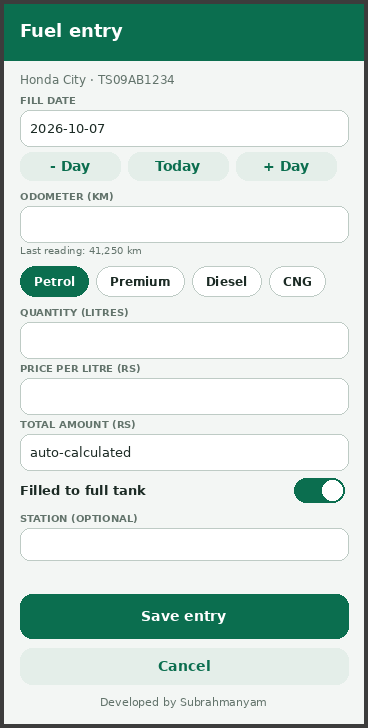
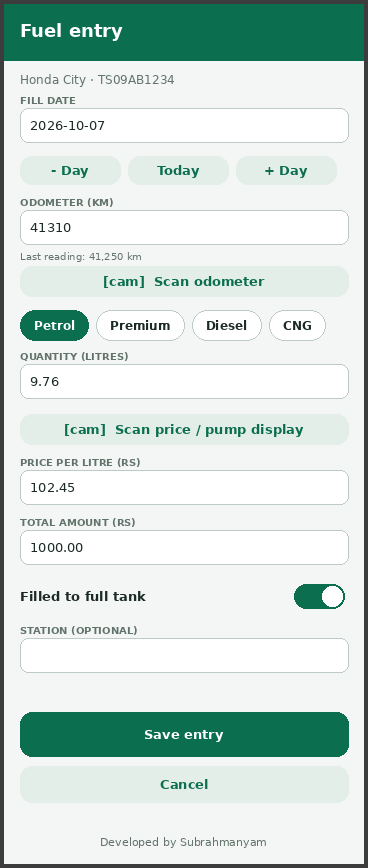
adding camera feature

diff --git a/app/src/screens.tsx b/app/src/screens.tsx
@@ -1,5 +1,6 @@
 import React, { useMemo, useState } from 'react';
-import { View, Text, ScrollView, Alert, Share, TouchableOpacity, Switch } from 'react-native';
+import { View, Text, ScrollView, Alert, Share, TouchableOpacity, Switch, Modal, ActivityIndicator } from 'react-native';
+import { captureText, odometerCandidates, amountCandidates } from './ocr';
 import { Vehicle, FuelEntry, FuelType, FUEL_TYPES, DB } from './types';
 import { Btn, Card, Chips, Field, Stat, C, s, Credit } from './ui';
 import { computeStats, monthlySpend, sortEntries, todayStr, addDays, validDate, money, num } from './calc';
@@ -63,6 +64,44 @@ export function Home({ db, vehicle, go, select }: { db: DB; vehicle: Vehicle | n
   );
 }
 
+/* ---------------- SCAN RESULT SHEET ---------------- */
+type Scan = { mode: 'odo' | 'fuel'; values: number[]; text: string } | null;
+function ScanSheet({ scan, onClose, onOdo, onField }: { scan: Scan; onClose: () => void; onOdo: (n: number) => void; onField: (f: 'price' | 'qty' | 'total', n: number) => void }) {
+  const [sel, setSel] = useState<number | null>(null);
+  if (!scan) return null;
+  const close = () => { setSel(null); onClose(); };
+  return (
+    <Modal transparent animationType="slide" onRequestClose={close}>
+      <View style={{ flex: 1, backgroundColor: '#0008', justifyContent: 'flex-end' }}>
+        <View style={{ backgroundColor: '#fff', borderTopLeftRadius: 18, borderTopRightRadius: 18, padding: 16, maxHeight: '80%' }}>
+          <Text style={{ fontSize: 17, fontWeight: '800', color: C.text }}>{scan.mode === 'odo' ? 'Odometer reading found' : 'Numbers found on pump / bill'}</Text>
+          <Text style={s.hint}>{scan.mode === 'odo' ? 'Tap the correct reading.' : 'Tap a number, then choose what it is.'}</Text>
+          <ScrollView style={{ marginVertical: 10 }}>
+            <View style={{ flexDirection: 'row', flexWrap: 'wrap' }}>
+              {scan.values.map((n) => (
+                <TouchableOpacity key={n} onPress={() => (scan.mode === 'odo' ? (onOdo(n), close()) : setSel(n))} style={[s.chip, sel === n && { backgroundColor: C.primary, borderColor: C.primary }]}>
+                  <Text style={{ color: sel === n ? '#fff' : C.text, fontWeight: '800', fontSize: 18 }}>{n}</Text>
+                </TouchableOpacity>
+              ))}
+            </View>
+            {scan.mode === 'fuel' && sel !== null && (
+              <View style={{ marginTop: 6 }}>
+                <Text style={{ color: C.sub, marginBottom: 6 }}>Use {sel} as:</Text>
+                <View style={{ flexDirection: 'row' }}>
+                  <Btn kind="ghost" label="Price/unit" onPress={() => { onField('price', sel); setSel(null); }} style={{ flex: 1, marginRight: 6, paddingVertical: 10 }} />
+                  <Btn kind="ghost" label="Quantity" onPress={() => { onField('qty', sel); setSel(null); }} style={{ flex: 1, marginRight: 6, paddingVertical: 10 }} />
+                  <Btn kind="ghost" label="Amount" onPress={() => { onField('total', sel); setSel(null); }} style={{ flex: 1, paddingVertical: 10 }} />
+                </View>
+              </View>
+            )}
+          </ScrollView>
+          <Btn label="Done" onPress={close} />
+        </View>
+      </View>
+    </Modal>
+  );
+}
+
 /* ---------------- ADD / EDIT FUEL ---------------- */
 export function AddFuel({ vehicle, entries, editing, onSave, onCancel }: { vehicle: Vehicle; entries: FuelEntry[]; editing?: FuelEntry | null; onSave: (e: FuelEntry) => void; onCancel: () => void }) {
   const sorted = sortEntries(entries);
@@ -77,6 +116,21 @@ export function AddFuel({ vehicle, entries, editing, onSave, onCancel }: { vehic
   const [station, setStation] = useState(editing?.station ?? '');
   const [notes, setNotes] = useState(editing?.notes ?? '');
   const unit = fuelType === 'CNG' ? 'kg' : 'litres';
+  const [scan, setScan] = useState<Scan>(null);
+  const [busy, setBusy] = useState(false);
+
+  const runScan = async (mode: 'odo' | 'fuel') => {
+    setBusy(true);
+    try {
+      const text = await captureText();
+      if (text === null) return;
+      const values = mode === 'odo' ? odometerCandidates(text, last?.odo ?? vehicle.startOdo ?? 0) : amountCandidates(text);
+      if (values.length === 0) return Alert.alert('No numbers found', 'Move closer, avoid glare, and crop tightly around the digits. You can also type the value.');
+      setScan({ mode, values, text });
+    } finally {
+      setBusy(false);
+    }
+  };
 
   const recalcTotal = (q: string, p: string) => {
     const a = parseFloat(q), b = parseFloat(p);
@@ -120,9 +174,11 @@ export function AddFuel({ vehicle, entries, editing, onSave, onCancel }: { vehic
         <Btn kind="ghost" label="+ Day" onPress={() => setDate(addDays(validDate(date) ? date : todayStr(), 1))} style={{ flex: 1, paddingVertical: 8 }} />
       </View>
       <Field label="Odometer (km)" value={odo} onChangeText={setOdo} keyboardType="decimal-pad" hint={last ? `Last reading: ${last.odo} km` : vehicle.startOdo != null ? `Odometer at setup: ${vehicle.startOdo} km` : 'First entry for this vehicle'} />
+      <Btn kind="ghost" label="📷  Scan odometer" onPress={() => runScan('odo')} disabled={busy} style={{ marginTop: -4, marginBottom: 12, paddingVertical: 10 }} />
       <Text style={s.label}>Fuel type</Text>
       <Chips options={FUEL_TYPES.map((f) => ({ key: f, label: f }))} value={fuelType} onChange={(k) => setFuelType(k as FuelType)} />
       <Field label={`Quantity (${unit})`} value={qty} onChangeText={onQty} keyboardType="decimal-pad" />
+      <Btn kind="ghost" label="📷  Scan price / pump display" onPress={() => runScan('fuel')} disabled={busy} style={{ marginBottom: 12, paddingVertical: 10 }} />
       <Field label={`Price per ${unit === 'kg' ? 'kg' : 'litre'} (₹)`} value={price} onChangeText={onPrice} keyboardType="decimal-pad" />
       <Field label="Total amount (₹)" value={total} onChangeText={onTotal} keyboardType="decimal-pad" hint="Auto-calculated; edit to match your bill" />
       <View style={{ flexDirection: 'row', alignItems: 'center', justifyContent: 'space-between', marginBottom: 12 }}>
@@ -136,6 +192,8 @@ export function AddFuel({ vehicle, entries, editing, onSave, onCancel }: { vehic
       <Field label="Notes (optional)" value={notes} onChangeText={setNotes} multiline />
       <Btn label={editing ? 'Save changes' : 'Save entry'} onPress={save} style={{ marginBottom: 10 }} />
       <Btn kind="ghost" label="Cancel" onPress={onCancel} />
+      {busy && <ActivityIndicator color={C.primary} style={{ marginTop: 12 }} />}
+      <ScanSheet scan={scan} onClose={() => setScan(null)} onOdo={(n) => setOdo(String(n))} onField={(f, n) => (f === 'price' ? onPrice(String(n)) : f === 'qty' ? onQty(String(n)) : onTotal(String(n)))} />
     </Body>
   );
 }

diff --git a/app/src/ocr.ts b/app/src/ocr.ts
@@ -1,0 +1,51 @@
+import { Alert } from 'react-native';
+import * as ImagePicker from 'expo-image-picker';
+import TextRecognition from '@react-native-ml-kit/text-recognition';
+
+/** Open the camera (with crop step), run on-device ML Kit OCR, return the recognised text or null if cancelled. */
+export async function captureText(): Promise<string | null> {
+  const perm = await ImagePicker.requestCameraPermissionsAsync();
+  if (!perm.granted) {
+    Alert.alert('Camera permission needed', 'Allow camera access in Android Settings > Apps > FuelLog > Permissions to scan readings.');
+    return null;
+  }
+  const r = await ImagePicker.launchCameraAsync({ mediaTypes: ['images'], quality: 0.8, allowsEditing: true });
+  if (r.canceled || !r.assets?.length) return null;
+  try {
+    const out = await TextRecognition.recognize(r.assets[0].uri);
+    return out?.text ?? '';
+  } catch (e) {
+    Alert.alert('Could not read the photo', 'Text recognition failed. Try again or type the value.');
+    return null;
+  }
+}
+
+// Fix common OCR mix-ups inside digit-like tokens (O->0, I/l->1)
+const clean = (text: string) =>
+  text.replace(/[0-9OoIl][0-9OoIl,.]*/g, (tok) => ((tok.match(/\d/g) || []).length >= 2 ? tok.replace(/[Oo]/g, '0').replace(/[Il]/g, '1') : tok));
+
+/** Likely odometer readings (3-7 digits), best guess first: just above the last known reading. */
+export function odometerCandidates(text: string, ref: number): number[] {
+  const toks = clean(text).match(/\d[\d,]*(\.\d+)?/g) || [];
+  const set = new Set<number>();
+  toks.forEach((t) => {
+    const digits = t.split('.')[0].replace(/,/g, '');
+    if (digits.length >= 3 && digits.length <= 7) set.add(parseInt(digits, 10));
+  });
+  const all = [...set];
+  const near = all.filter((n) => n >= ref && n <= ref + 5000).sort((a, b) => a - b);
+  const rest = all.filter((n) => !near.includes(n)).sort((a, b) => String(b).length - String(a).length || b - a);
+  return [...near, ...rest].slice(0, 6);
+}
+
+/** Numbers on a pump display or bill (rate, litres, amount); decimals first. */
+export function amountCandidates(text: string): number[] {
+  const toks = clean(text).match(/\d[\d,]*(\.\d{1,3})?/g) || [];
+  const seen = new Set<number>();
+  const list: { n: number; dec: boolean }[] = [];
+  toks.forEach((t) => {
+    const n = parseFloat(t.replace(/,/g, ''));
+    if (n > 0 && n < 100000 && !seen.has(n)) { seen.add(n); list.push({ n, dec: t.includes('.') }); }
+  });
+  return list.sort((a, b) => Number(b.dec) - Number(a.dec)).map((x) => x.n).slice(0, 8);
+}
